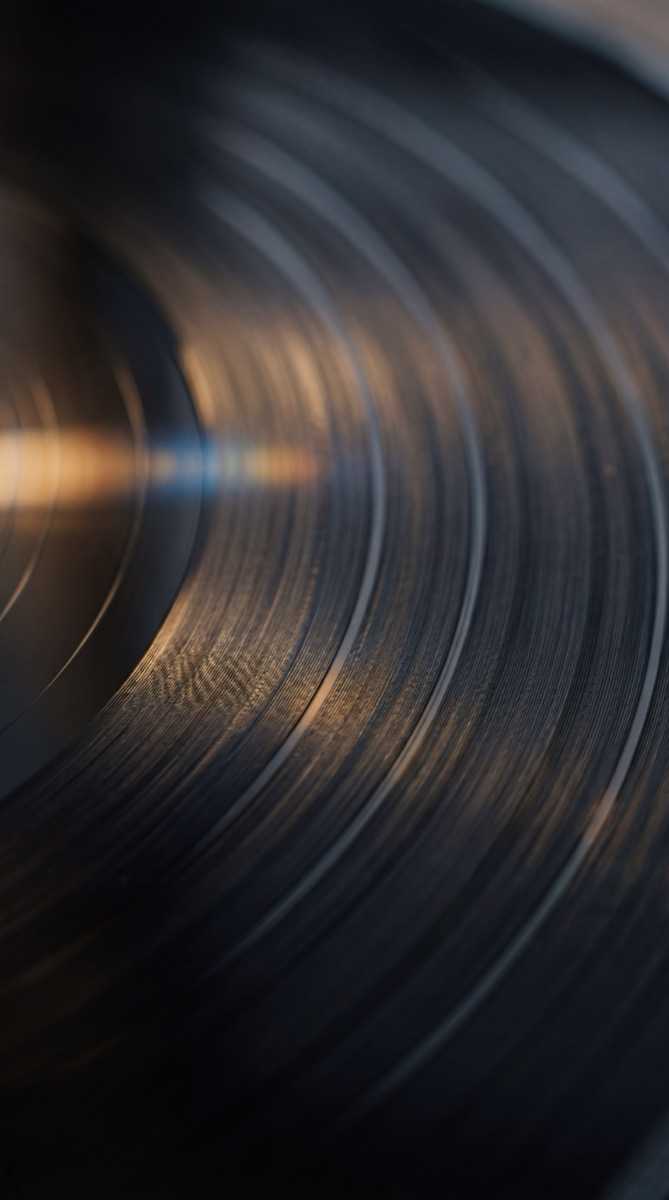
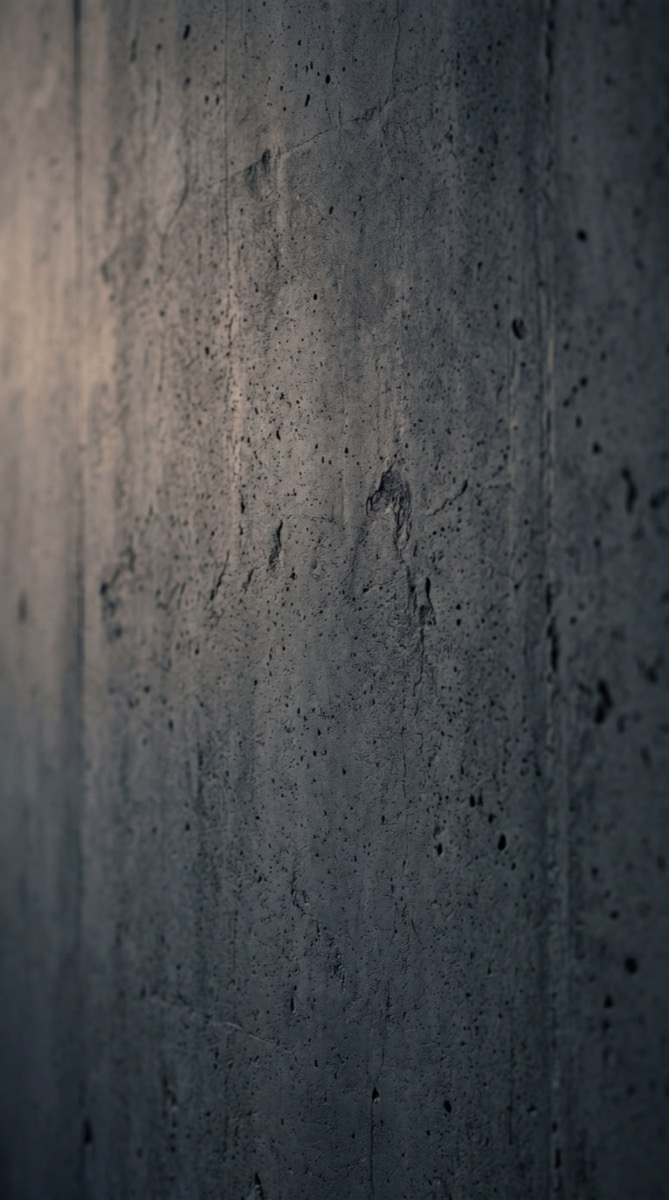
Use new texture as app background; revert Create tile to iPhone image

diff --git a/app/components/AmbientBackground.tsx b/app/components/AmbientBackground.tsx
@@ -35,10 +35,10 @@ export function AmbientBackground() {
       aria-hidden
       style={{ zIndex: 0 }}
     >
-      {/* Vinyl — default state only */}
+      {/* Background texture — default state only */}
       {/* eslint-disable-next-line @next/next/no-img-element */}
       <img
-        src="/vinyl.jpg"
+        src="/bg.jpg"
         alt=""
         style={{
           position: "absolute",